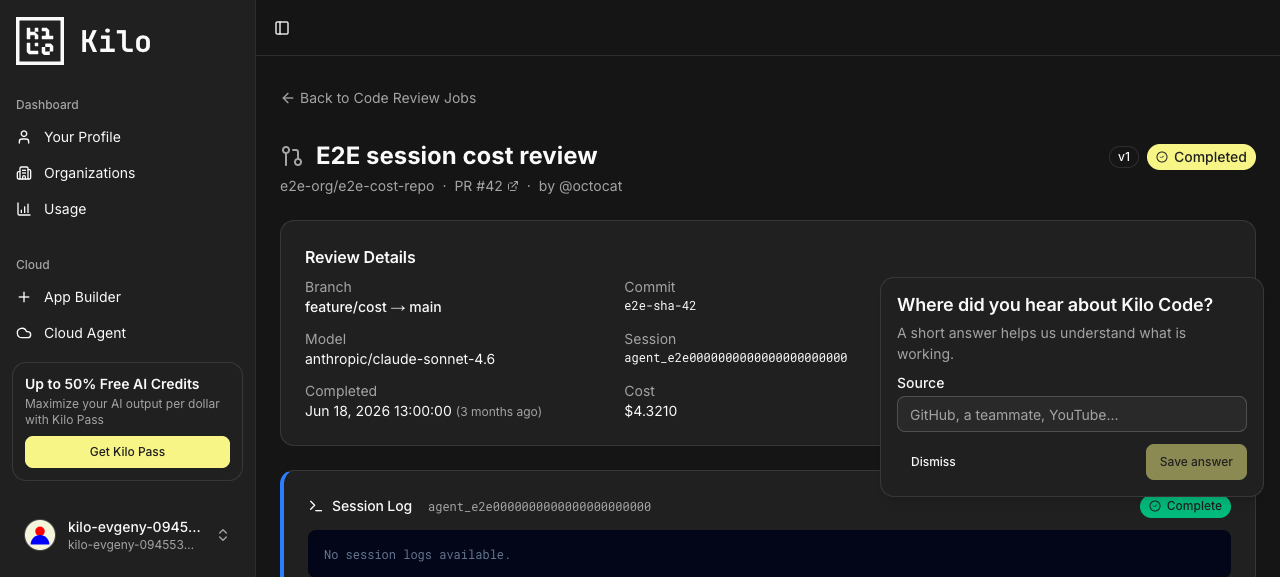
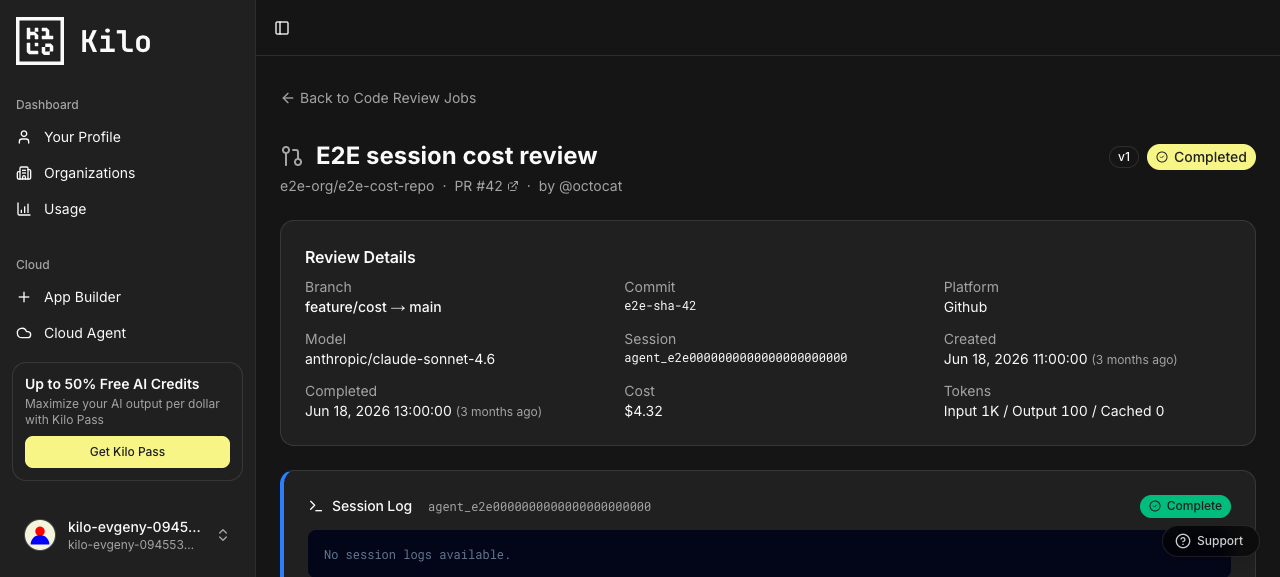
fix(web): render session cost to the cent via formatSessionCost
Both cost rows now use the shared formatSessionCost/isRenderableSessionCost helpers from the cloud agent session UI, so the value is shown to the cent instead of four decimals, and the row is hidden below half a cent rather than showing $0.00. Screenshots refreshed without the source-survey popup.

diff --git a/apps/web/src/app/admin/components/SessionTraceViewer.tsx b/apps/web/src/app/admin/components/SessionTraceViewer.tsx
@@ -13,6 +13,10 @@ import { MessageErrorBoundary as V1MessageErrorBoundary } from '@/components/clo
 import { convertToCloudMessages } from '@/components/cloud-agent/store/db-session-atoms';
 import { MessageBubble as V2MessageBubble } from '@/components/cloud-agent-next/MessageBubble';
 import { MessageErrorBoundary as V2MessageErrorBoundary } from '@/components/cloud-agent-next/MessageErrorBoundary';
+import {
+  formatSessionCost,
+  isRenderableSessionCost,
+} from '@/components/cloud-agent-next/session-cost-breakdown';
 import { isNewSession } from '@/lib/cloud-agent/session-type';
 import {
   useAdminSessionTrace,
@@ -404,17 +408,18 @@ export function SessionTraceViewer() {
                   </span>
                 </div>
               )}
-              {sessionQuery.data.total_cost_microdollars != null && (
-                <div className="flex items-center gap-2">
-                  <DollarSign className="text-muted-foreground h-4 w-4" />
-                  <span className="text-sm">
-                    Cost:{' '}
-                    <span className="font-mono tabular-nums">
-                      ${(sessionQuery.data.total_cost_microdollars / 1_000_000).toFixed(4)}
+              {sessionQuery.data.total_cost_microdollars != null &&
+                isRenderableSessionCost(sessionQuery.data.total_cost_microdollars / 1_000_000) && (
+                  <div className="flex items-center gap-2">
+                    <DollarSign className="text-muted-foreground h-4 w-4" />
+                    <span className="text-sm">
+                      Cost:{' '}
+                      <span className="font-mono tabular-nums">
+                        {formatSessionCost(sessionQuery.data.total_cost_microdollars / 1_000_000)}
+                      </span>
                     </span>
-                  </span>
-                </div>
-              )}
+                  </div>
+                )}
               {latestContainerInterval?.cloudflareInstanceId && (
                 <div className="flex min-w-0 items-center gap-2">
                   <Server className="text-muted-foreground h-4 w-4 shrink-0" />

diff --git a/apps/web/src/app/(app)/code-reviews/[reviewId]/CodeReviewDetailClient.tsx b/apps/web/src/app/(app)/code-reviews/[reviewId]/CodeReviewDetailClient.tsx
@@ -9,6 +9,10 @@ import { CouncilGovernancePanel } from '@/components/code-reviews/CouncilGoverna
 import { formatTokenCount } from '@/lib/code-reviews/summary/usage-footer';
 import { getCodeReviewJobsHref } from '@/lib/code-reviews/code-review-links';
 import { getCodeReviewTerminalReasonCopy } from '@/lib/code-reviews/terminal-reason-copy';
+import {
+  formatSessionCost,
+  isRenderableSessionCost,
+} from '@/components/cloud-agent-next/session-cost-breakdown';
 import { ExternalLink, GitPullRequest, Loader2, ArrowLeft, RotateCcw, Ban } from 'lucide-react';
 import { getCodeReviewStatusIcon } from '@/components/code-reviews/code-review-status-icons';
 import { useTRPC } from '@/lib/trpc/utils';
@@ -129,7 +133,8 @@ export function CodeReviewDetailClient({ reviewId }: CodeReviewDetailClientProps
   const prLabel = review.platform === 'gitlab' ? 'MR' : 'PR';
   const jobsHref = getCodeReviewJobsHref(review.platform, review.owned_by_organization_id);
   // Billing-derived session cost is authoritative when available; fall back to the
-  // orchestrator-accumulated review cost for reviews without a linked session.
+  // orchestrator-accumulated review cost when the billing lookup has nothing (no
+  // linked session, an in-flight review, or a failed lookup).
   const sessionCostMusd = data.sessionCostMusd ?? review.total_cost_musd;
   const isSupersededCancellation =
     status === 'cancelled' &&
@@ -267,10 +272,10 @@ export function CodeReviewDetailClient({ reviewId }: CodeReviewDetailClientProps
                 </dd>
               </div>
             )}
-            {sessionCostMusd != null && sessionCostMusd > 0 && (
+            {sessionCostMusd != null && isRenderableSessionCost(sessionCostMusd / 1_000_000) && (
               <div>
                 <dt className="text-muted-foreground">Cost</dt>
-                <dd>${(sessionCostMusd / 1_000_000).toFixed(4)}</dd>
+                <dd>{formatSessionCost(sessionCostMusd / 1_000_000)}</dd>
               </div>
             )}
             <div>
